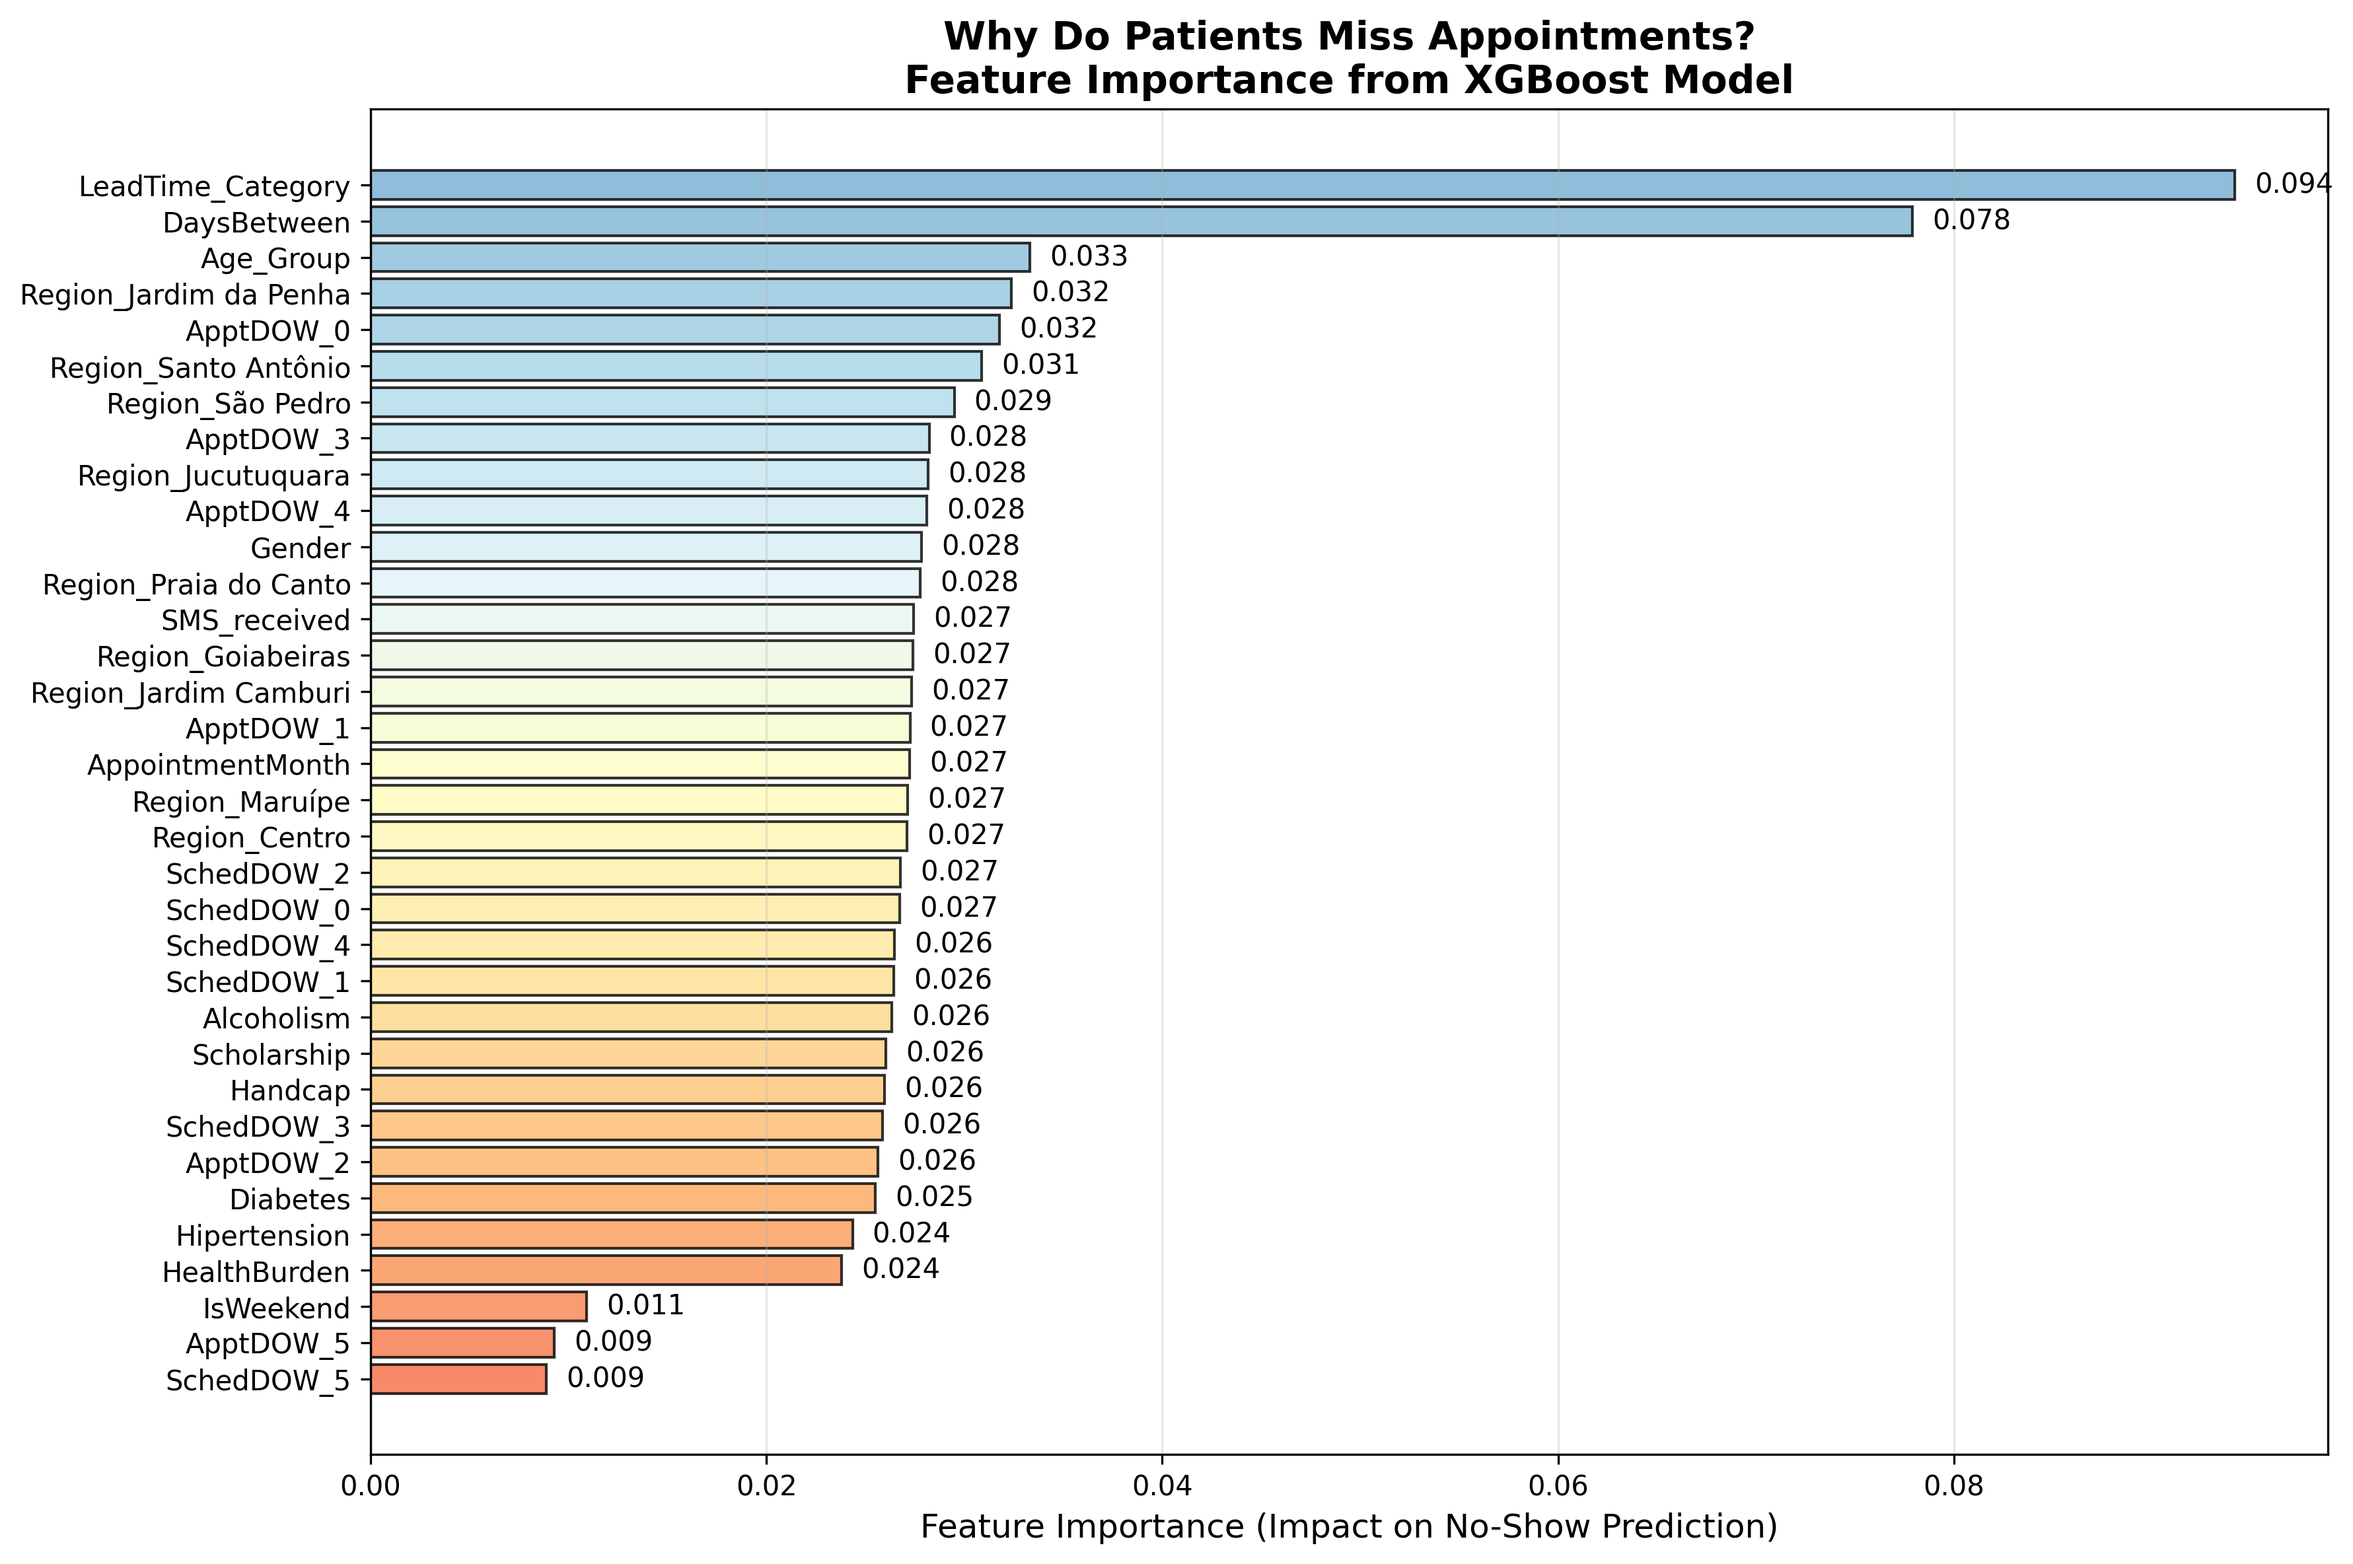
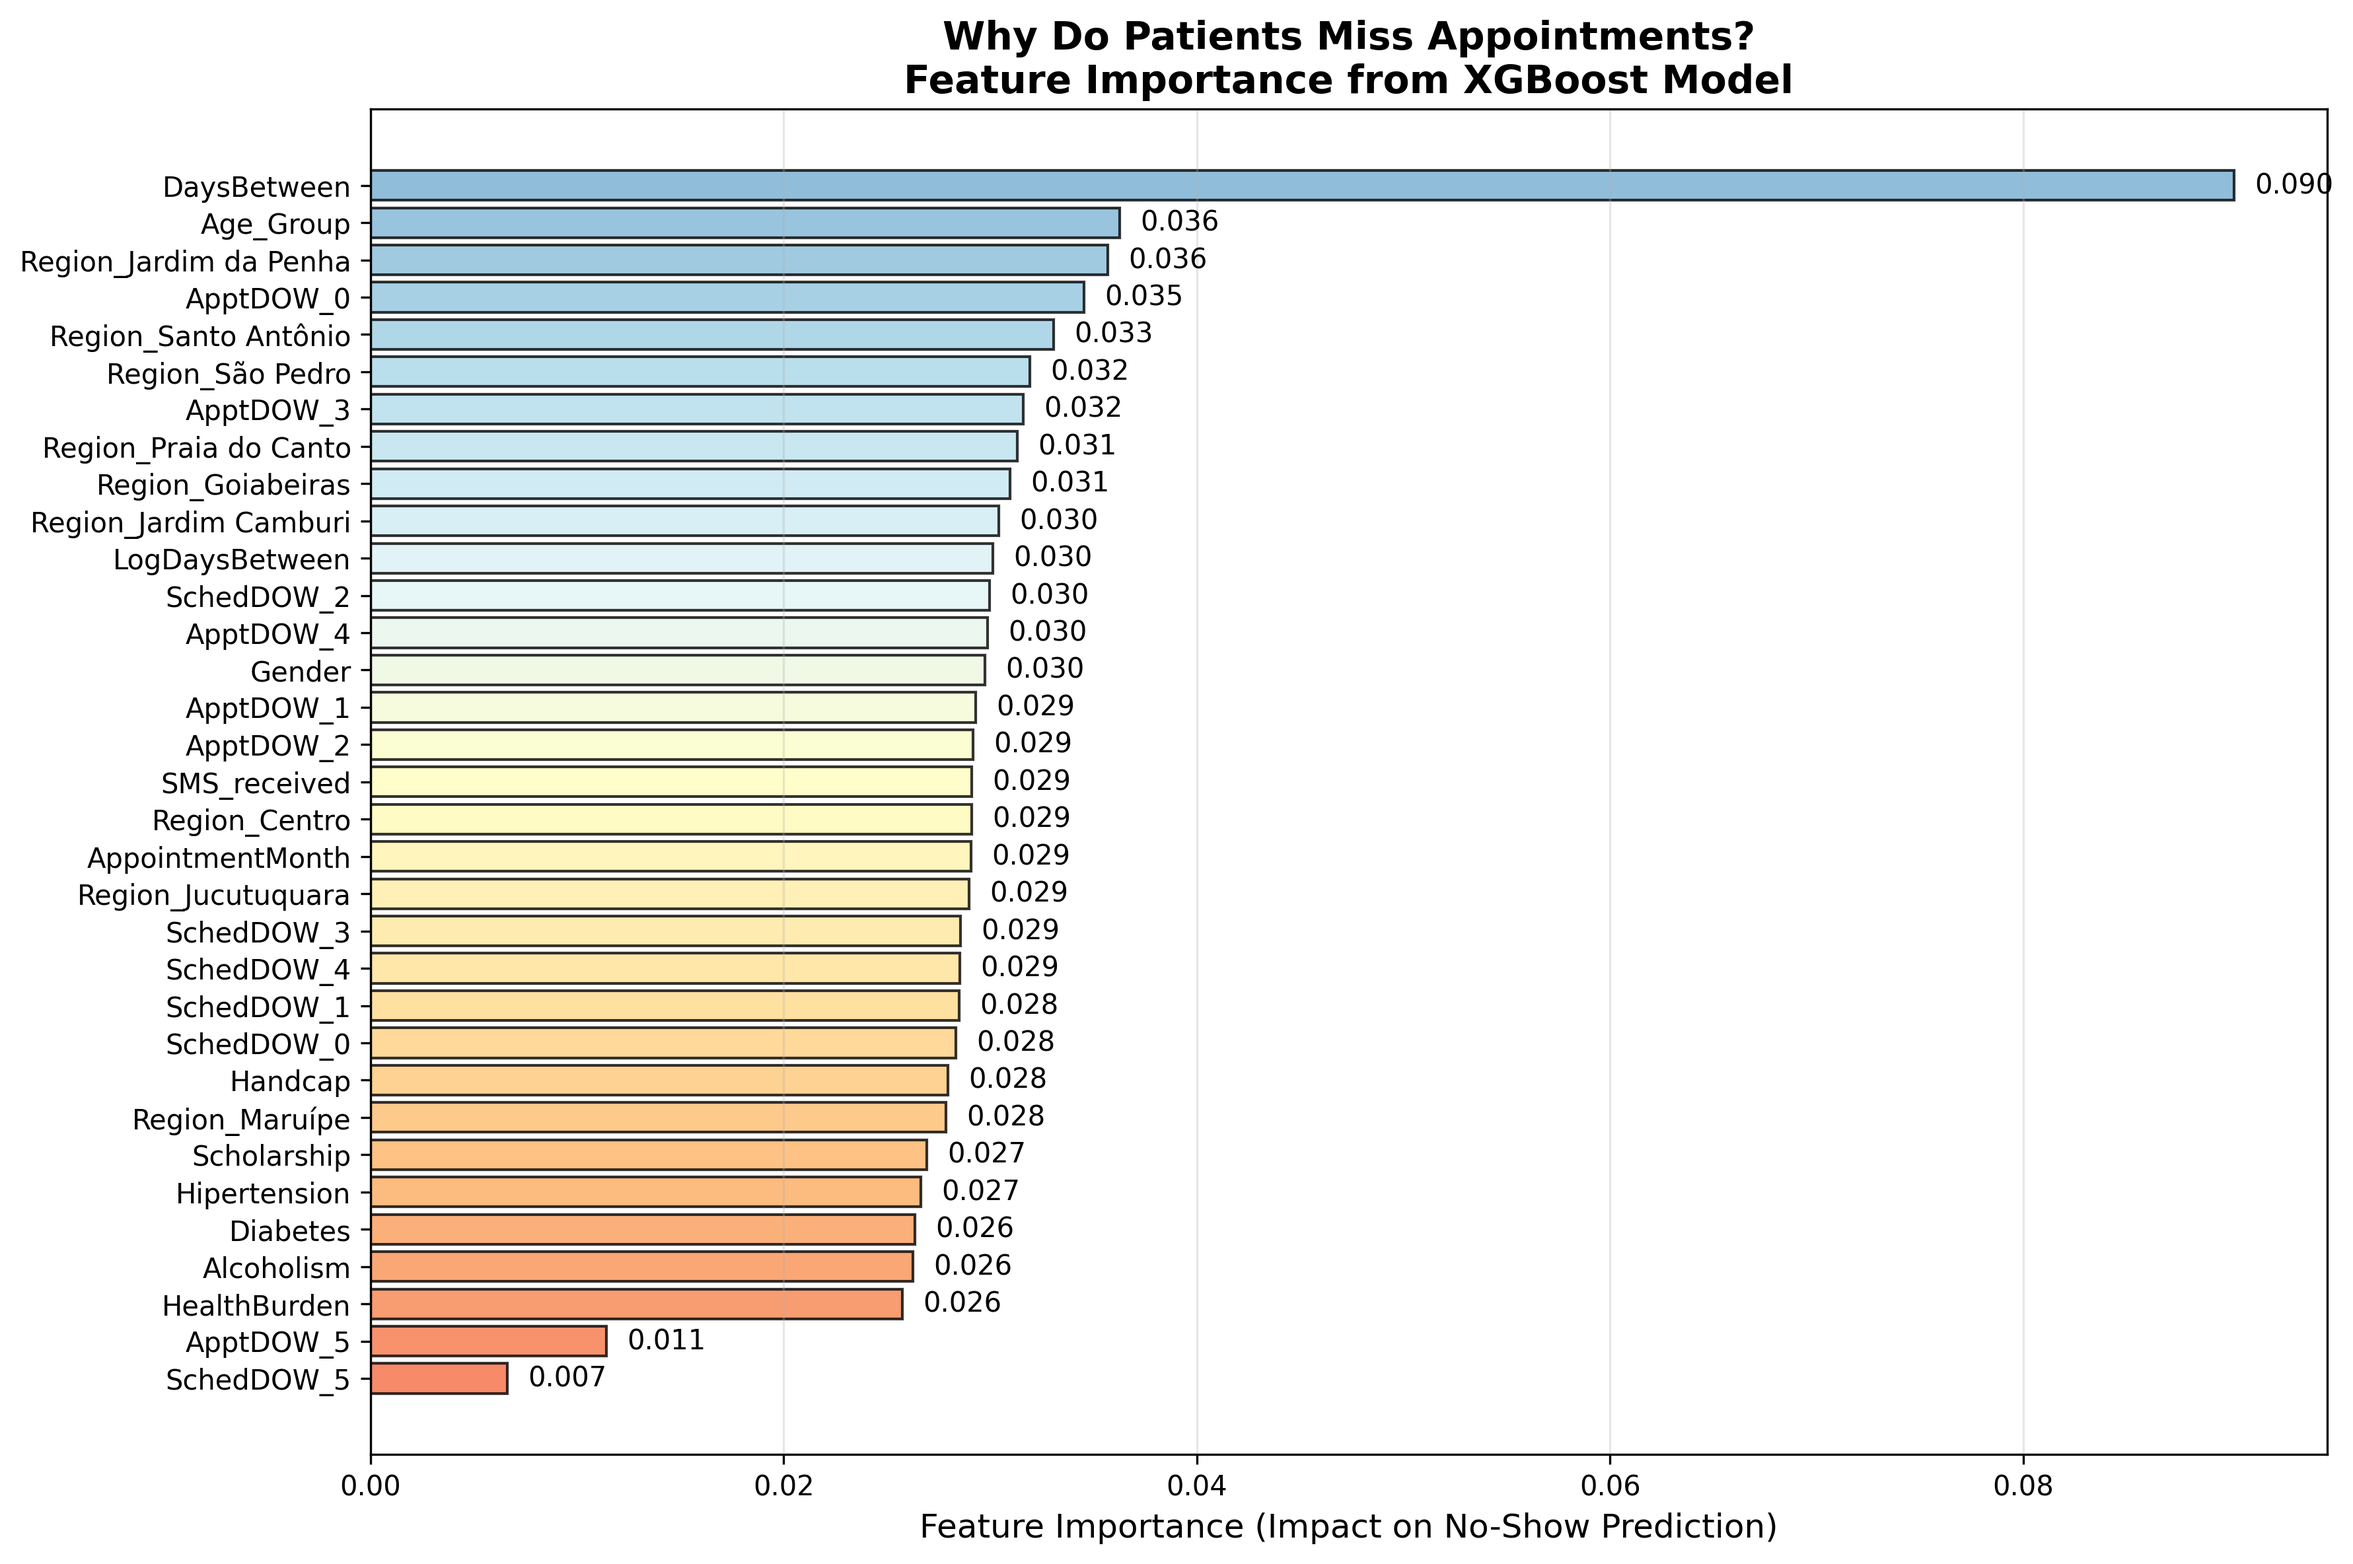
Remove redundant features and fix reporting consistency
- Remove IsWeekend (only 39/110k records - no signal)
- Remove LeadTime_Category (redundant with DaysBetween)
- Add LogDaysBetween (log1p transform to reduce skewness)
- Fix threshold description: 'optimized for accuracy s.t. recall >= 0.8'

Model: 57.9% accuracy, 79.8% recall, 0.712 ROC-AUC

diff --git a/Notebook_20251206_converted.py b/Notebook_20251206_converted.py
@@ -2063,21 +2063,15 @@ print(df_final_anonymous.describe(include='all'))
 print("\nStep 11b: Feature Engineering")
 print("="*60)
 
-# Feature 1: Lead time categories (more granular)
-# Categories: 0=same day, 1=next day, 2=2-3 days, 3=4-7 days, 4=1-2 weeks, 5=2-4 weeks, 6=more than 4 weeks
-# Note: DaysBetween is already >= 0 after date normalization fix
-df_final_anonymous['LeadTime_Category'] = pd.cut(
-    df_final_anonymous['DaysBetween'],
-    bins=[-1, 0, 1, 3, 7, 14, 30, float('inf')],
-    labels=[0, 1, 2, 3, 4, 5, 6]
-).astype(int)
-print("✓ Created LeadTime_Category (0-6 scale based on days between scheduling and appointment)")
+# Feature 1: Log-transformed DaysBetween to reduce dominance of extreme wait times
+# log1p handles 0 values gracefully: log1p(0) = 0
+df_final_anonymous['LogDaysBetween'] = np.log1p(df_final_anonymous['DaysBetween'])
+print("✓ Created LogDaysBetween (log1p transform to reduce skewness)")
 
-# Feature 2: Is weekend appointment
-df_final_anonymous['IsWeekend'] = (df_final_anonymous['AppointmentDayOfWeek'] >= 5).astype(int)
-print("✓ Created IsWeekend (binary: 1 if appointment is on Saturday or Sunday)")
+# Note: Removed LeadTime_Category (redundant with DaysBetween)
+# Note: Removed IsWeekend (only 39 weekend appointments in 110k - no signal)
 
-# Feature 4: Health burden score (sum of DP-protected conditions)
+# Feature 2: Health burden score (sum of DP-protected conditions)
 df_final_anonymous['HealthBurden'] = (
     df_final_anonymous['Hipertension'] + 
     df_final_anonymous['Diabetes'] + 
@@ -2086,11 +2080,10 @@ df_final_anonymous['HealthBurden'] = (
 )
 print("✓ Created HealthBurden (sum of 4 medical conditions, range 0-4)")
 
-print(f"\nNew features added: LeadTime_Category, IsWeekend, HealthBurden")
+print(f"\nNew features added: LogDaysBetween, HealthBurden")
 print(f"Updated dataset shape: {df_final_anonymous.shape}")
 print(f"\nNew feature distributions:")
-print(f"  LeadTime_Category: {df_final_anonymous['LeadTime_Category'].value_counts().sort_index().to_dict()}")
-print(f"  IsWeekend: {df_final_anonymous['IsWeekend'].value_counts().to_dict()}")
+print(f"  LogDaysBetween: min={df_final_anonymous['LogDaysBetween'].min():.2f}, max={df_final_anonymous['LogDaysBetween'].max():.2f}, mean={df_final_anonymous['LogDaysBetween'].mean():.2f}")
 print(f"  HealthBurden: {df_final_anonymous['HealthBurden'].value_counts().sort_index().to_dict()}")
 
 
@@ -2225,23 +2218,10 @@ df_ml_orig = pd.concat([df_ml_orig.drop(['AppointmentDayOfWeek', 'ScheduledDayOf
                         appt_dow_dummies_orig, sched_dow_dummies_orig], axis=1)
 
 # Feature Engineering for non-anonymized dataset (same as anonymized)
-# Feature 1: Lead time categories (DaysBetween is already >= 0 after date normalization)
-df_ml_orig['LeadTime_Category'] = pd.cut(
-    df_ml_orig['DaysBetween'],
-    bins=[-1, 0, 1, 3, 7, 14, 30, float('inf')],
-    labels=[0, 1, 2, 3, 4, 5, 6]
-).astype(int)
+# Feature 1: Log-transformed DaysBetween
+df_ml_orig['LogDaysBetween'] = np.log1p(df_ml_orig['DaysBetween'])
 
-# Feature 2: Is weekend appointment (use one-hot encoded DOW)
-# Check if ApptDOW_5 or ApptDOW_6 exist (Saturday=5, Sunday=6)
-if 'ApptDOW_5' in df_ml_orig.columns:
-    df_ml_orig['IsWeekend'] = df_ml_orig['ApptDOW_5'].astype(int)
-    if 'ApptDOW_6' in df_ml_orig.columns:
-        df_ml_orig['IsWeekend'] = (df_ml_orig['ApptDOW_5'] | df_ml_orig['ApptDOW_6']).astype(int)
-else:
-    df_ml_orig['IsWeekend'] = 0
-
-# Feature 4: Health burden score (sum of original conditions)
+# Feature 2: Health burden score (sum of original conditions)
 df_ml_orig['HealthBurden'] = (
     df_ml_orig['Hipertension'] + 
     df_ml_orig['Diabetes'] + 
@@ -2303,7 +2283,7 @@ print(f"Non-anonymized dataset ready: {X_orig.shape[0]} records, {X_orig.shape[1
 # 1. **Baseline**: Logistic Regression (simple, interpretable)
 # 2. **Ensemble Models**: Random Forest & XGBoost (strong predictors)
 # 3. **Calibration**: CalibratedClassifierCV for well-calibrated probabilities
-# 4. **Threshold Tuning**: Optimize for F2 score (recall-weighted) since missing a no-show is worse than a false alarm
+# 4. **Threshold Tuning**: Maximize accuracy subject to recall >= 0.80 (balances catching no-shows with overall performance)
 # 5. **Comparison**: Anonymized vs Non-Anonymized to quantify utility loss
 
 # In[28]:
@@ -3022,7 +3002,7 @@ print(f"   • Best Model: {best_model_name}")
 print(f"   • Accuracy: {best_metrics['accuracy']:.1%}")
 print(f"   • Recall (No-show detection): {best_metrics['recall']:.1%}")
 print(f"   • ROC-AUC: {best_metrics['roc_auc']:.3f}")
-print(f"   • Threshold: {best_metrics['threshold']:.2f} (optimized for F2)")
+print(f"   • Threshold: {best_metrics['threshold']:.2f} (optimized for accuracy s.t. recall >= {MIN_RECALL})")
 
 print("\nKEY FINDINGS:")
 print("   1. Lead time is the strongest predictor - shorter waits = better attendance")
